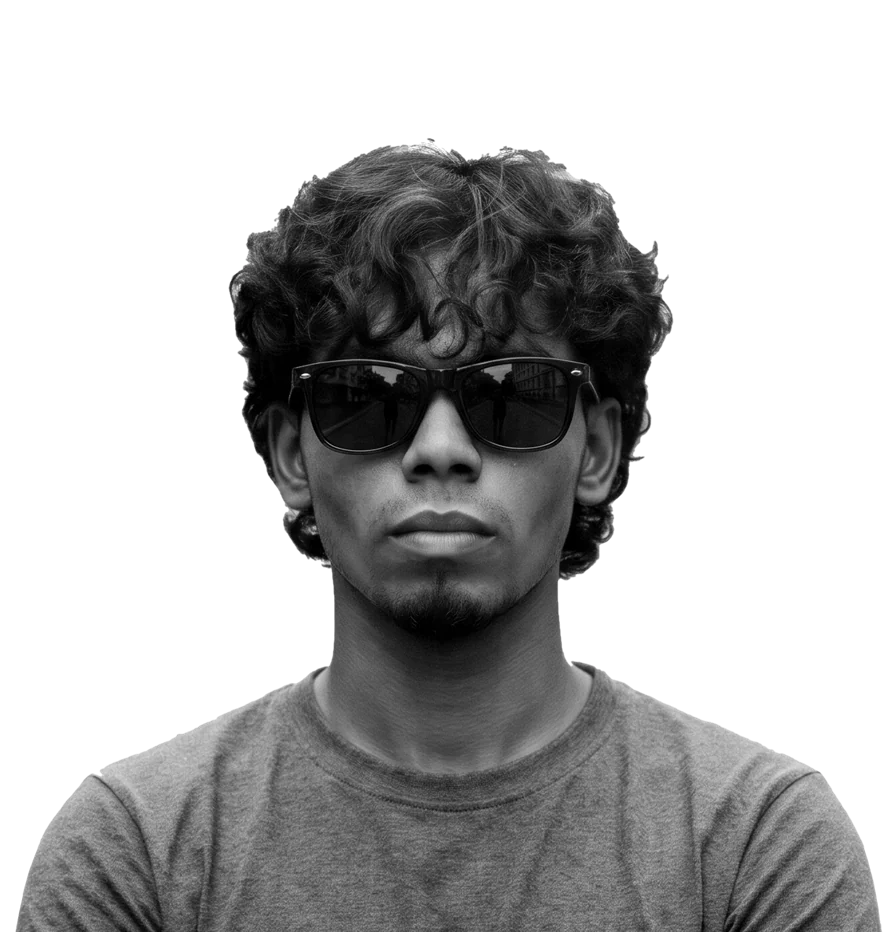
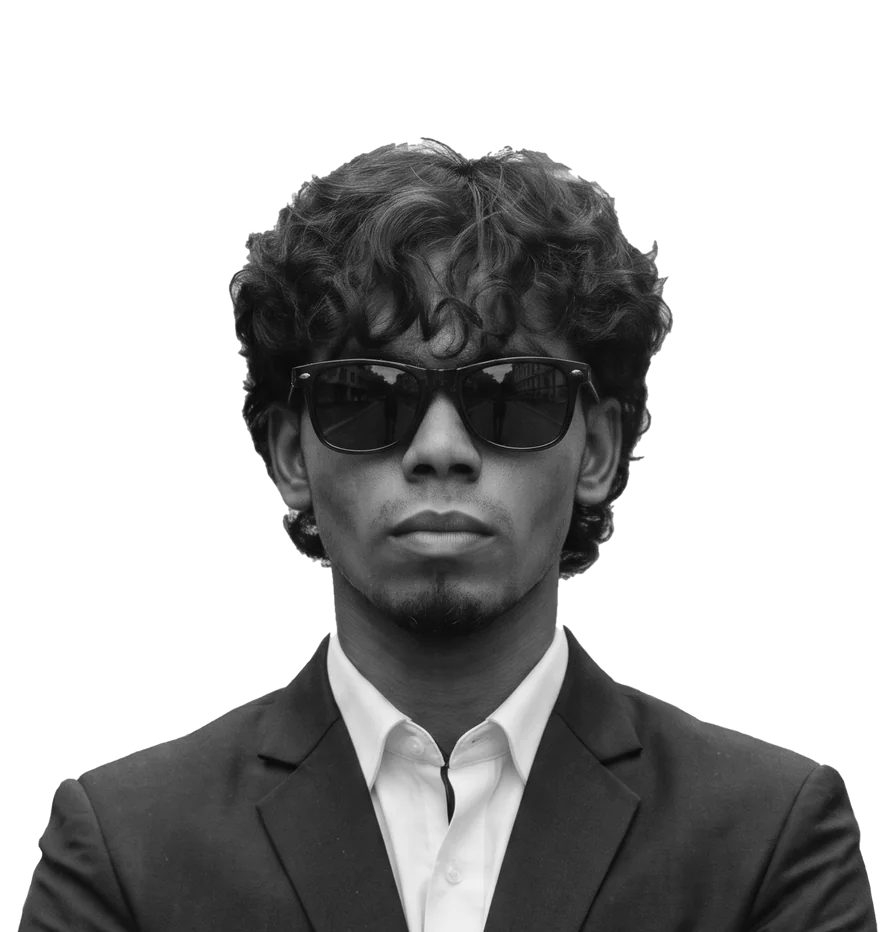
Update portrait to suit photo and reposition as Full-Stack AI Developer

diff --git a/src/app/about/page.tsx b/src/app/about/page.tsx
@@ -2,17 +2,20 @@ import type { Metadata } from "next";
 import Image from "next/image";
 import Link from "next/link";
 import { ContactClock } from "@/components/contact-clock";
+import { PORTRAIT_CUTOUT } from "@/lib/assets";
 
 export const metadata: Metadata = {
   title: "About — Sanoj",
   description:
-    "Sanoj is a full-stack developer from Chennai building web apps with Django, Flask, Next.js and Three.js.",
+    "Sanoj is a full-stack AI developer from Chennai building web apps with Django, Flask, Next.js and Gemini.",
 };
 
 const SKILLS = [
   "DJANGO",
   "FLASK",
   "NEXT.JS",
+  "GEMINI API",
+  "AI INTEGRATION",
   "THREE.JS",
   "PYTHON",
   "JAVASCRIPT",
@@ -36,10 +39,10 @@ export default function AboutPage() {
 
       <div className="about-portrait">
         <Image
-          src="/images/portrait-cutout.png"
+          src={PORTRAIT_CUTOUT}
           alt="Portrait of Sanoj"
-          width={1200}
-          height={1607}
+          width={1792}
+          height={2400}
           priority
           sizes="(max-width: 900px) 140vw, 720px"
           className="about-portrait__img"
@@ -56,7 +59,7 @@ export default function AboutPage() {
         </p>
 
         <p className="about-lede">
-          Full-stack developer, working from the database to the screen.
+          Full-stack AI developer, working from the database to the screen.
         </p>
 
         <h2 className="about-heading">
@@ -67,14 +70,14 @@ export default function AboutPage() {
 
         <div className="about-copy">
           <p>
-            I&apos;m a BCA student from Chennai who builds full-stack web apps. I
-            work with Django and Flask on the back end and Next.js on the front
-            end.
+            I&apos;m a BCA student from Chennai who builds full-stack web apps and
+            adds AI to them. I work with Django and Flask on the back end and
+            Next.js on the front end.
           </p>
           <p>
-            Lately I&apos;ve been learning to make interfaces feel alive with
-            motion, shaders and 3D using Three.js. This site is part of that
-            practice.
+            I use AI APIs like Google&apos;s Gemini to add features that understand
+            text and images, and I use Three.js to make interfaces feel alive.
+            This site is part of that practice.
           </p>
           <p>
             I like projects where I can take an idea from the database all the

diff --git a/src/components/particle-portrait.tsx b/src/components/particle-portrait.tsx
@@ -14,6 +14,7 @@ import {
   Vector2,
   WebGLRenderer,
 } from "three";
+import { PORTRAIT_CUTOUT, PORTRAIT_SAMPLE } from "@/lib/assets";
 import {
   ENTERED_EVENT,
   getTier,
@@ -23,7 +24,7 @@ import {
   type QualityTier,
 } from "@/lib/settings";
 
-const IMAGE_SRC = "/images/portrait-sample.webp";
+const IMAGE_SRC = PORTRAIT_SAMPLE;
 
 /**
  * The cutout is 1200x1607 and the person sits roughly between 15%-88% on the
@@ -108,7 +109,7 @@ function mulberry32(seed: number) {
 }
 
 async function loadBitmap(src: string) {
-  const response = await fetch(src, { cache: "force-cache" });
+  const response = await fetch(src, { cache: "default" });
   if (!response.ok) throw new Error(`Portrait request failed: ${response.status}`);
   const blob = await response.blob();
 
@@ -283,7 +284,7 @@ function buildPoints(prepared: Prepared, quality: QualityTier): BuiltPoints {
         1,
         Math.max(0, (luminanceAt(offset) - low) / (high - low)),
       );
-      if (normalized < 0.12) continue;
+      if (normalized < 0.05) continue;
       eligible += 1;
     }
   }
@@ -301,16 +302,17 @@ function buildPoints(prepared: Prepared, quality: QualityTier): BuiltPoints {
 
       const luminance = luminanceAt(offset);
       const normalized = Math.min(1, Math.max(0, (luminance - low) / (high - low)));
-      if (normalized < 0.12) continue;
+      if (normalized < 0.05) continue;
 
-      const lifted = Math.pow(normalized, 0.6);
+      const lifted = Math.pow(normalized, 0.5);
       const jitterX = (random() - 0.5) * step;
       const jitterY = (random() - 0.5) * step;
       const u = Math.min(1, Math.max(0, (px + jitterX) / sampleWidth));
       const v = Math.min(1, Math.max(0, (py + jitterY) / sampleHeight));
 
       positions.push((u - 0.5) * 2 * SOURCE_ASPECT, (0.5 - v) * 2, 0);
-      brightness.push(0.3 + lifted * 0.7);
+      // A low floor keeps the suit readable without flattening the face.
+      brightness.push(0.08 + lifted * 0.92);
       seeds.push(random());
       horizontal.push(u);
     }
@@ -563,7 +565,7 @@ export default function ParticlePortrait() {
       <canvas ref={canvasRef} className="particle-portrait__canvas" />
       {failed && (
         <Image
-          src="/images/portrait-cutout.png"
+          src={PORTRAIT_CUTOUT}
           alt=""
           fill
           sizes="(max-width: 640px) 92vw, (max-width: 1180px) 62vw, 38vw"

diff --git a/src/lib/projects.ts b/src/lib/projects.ts
@@ -22,8 +22,21 @@ export type Project = {
 
 export const PROJECTS: Project[] = [
   {
-    slug: "online-food-ordering-system",
+    slug: "multimodal-ai-intelligence-system",
     index: "01",
+    title: "MULTIMODAL AI INTELLIGENCE SYSTEM",
+    category: "AI APPLICATION",
+    meta: ["AI APPLICATION", "FULL-STACK", "2026"],
+    description:
+      "A Next.js app that uses Google's Gemini to work with different kinds of input in one place.",
+    tags: ["NEXT.JS", "GEMINI", "AI"],
+    // Drop /images/projects/multimodal-ai.png in and point here.
+    image: null,
+    href: null,
+  },
+  {
+    slug: "online-food-ordering-system",
+    index: "02",
     title: "ONLINE FOOD ORDERING SYSTEM",
     category: "WEB APPLICATION",
     meta: ["WEB APPLICATION", "FULL-STACK", "2026"],
@@ -36,7 +49,7 @@ export const PROJECTS: Project[] = [
   },
   {
     slug: "student-management-system",
-    index: "02",
+    index: "03",
     title: "STUDENT MANAGEMENT SYSTEM",
     category: "WEB APPLICATION",
     meta: ["WEB APPLICATION", "FULL-STACK", "2026"],
@@ -44,19 +57,6 @@ export const PROJECTS: Project[] = [
       "A Flask-based system for managing student records, with JWT login and a plain HTML/JS frontend.",
     tags: ["FLASK", "JWT", "HTML/JS"],
     // Drop /images/projects/student-management.png in and point here.
-    image: null,
-    href: null,
-  },
-  {
-    slug: "multimodal-ai-intelligence-system",
-    index: "03",
-    title: "MULTIMODAL AI INTELLIGENCE SYSTEM",
-    category: "AI APPLICATION",
-    meta: ["AI APPLICATION", "FULL-STACK", "2026"],
-    description:
-      "A Next.js app that uses Google's Gemini to work with different kinds of input in one place.",
-    tags: ["NEXT.JS", "GEMINI", "AI"],
-    // Drop /images/projects/multimodal-ai.png in and point here.
     image: null,
     href: null,
   },

diff --git a/src/components/home-hero.tsx b/src/components/home-hero.tsx
@@ -6,9 +6,9 @@ const BIG_STATS = [
 ] as const;
 
 const STAT_ROWS = [
-  { key: "ROLE", value: "Full-Stack Developer" },
-  { key: "STACK", value: "Django / Next.js / Three.js" },
-  { key: "FOCUS", value: "Web Apps / 3D Motion" },
+  { key: "ROLE", value: "Full-Stack AI Developer" },
+  { key: "STACK", value: "Django / Next.js / Gemini" },
+  { key: "FOCUS", value: "Web Apps / AI Features" },
   { key: "AVAILABILITY", value: "Open for work" },
   { key: "RESPONSE", value: "Under 24H" },
 ] as const;
@@ -26,20 +26,18 @@ export function HomeHero() {
 
         <h1 className="hero-title" id="hero-title">
           <span className="hero-title__outline">Full-Stack</span>
-          <span className="hero-title__solid">Developer</span>
+          <span className="hero-title__solid">AI Developer</span>
         </h1>
 
         <div className="hero-label">
           <span className="hero-label__rule" aria-hidden="true" />
-          <span className="hero-label__text">
-            | Django · Next.js · Three.js |
-          </span>
+          <span className="hero-label__text">| Django · Next.js · AI |</span>
           <span className="hero-label__rule" aria-hidden="true" />
         </div>
 
         <p className="hero-copy">
-          I build full-stack web apps from the database to the interface, and
-          I&apos;m learning to make them feel alive with motion and 3D.
+          I build full-stack web apps from the database to the interface, and add
+          AI features that make them smarter.
         </p>
       </div>
 

diff --git a/src/lib/site.ts b/src/lib/site.ts
@@ -1,12 +1,17 @@
 export const SITE_NAME = "Sanoj";
-export const SITE_TITLE = "Sanoj — Full-Stack Developer";
+export const SITE_TITLE = "Sanoj — Full-Stack AI Developer";
 export const SITE_DESCRIPTION =
-  "Full-stack developer in Chennai building fast, motion-led web apps with Next.js, Django and Three.js.";
+  "Full-stack AI developer in Chennai building web apps with Next.js, Django and Gemini.";
 
 /**
- * Set NEXT_PUBLIC_SITE_URL after the first Vercel deploy so sitemap.xml,
- * robots.txt and the Open Graph image resolve to the real domain.
+ * Vercel exposes the production domain at build time, so preview and
+ * production deploys get correct canonical, sitemap and OG URLs without any
+ * manual configuration. Set NEXT_PUBLIC_SITE_URL to override it (custom domain).
  */
+const vercelHost =
+  process.env.VERCEL_PROJECT_PRODUCTION_URL || process.env.VERCEL_URL;
+
 export const SITE_URL = (
-  process.env.NEXT_PUBLIC_SITE_URL || "https://sanoj-portfolio.vercel.app"
+  process.env.NEXT_PUBLIC_SITE_URL ||
+  (vercelHost ? `https://${vercelHost}` : "https://sanoj-portfolio.vercel.app")
 ).replace(/\/$/, "");

diff --git a/src/app/layout.tsx b/src/app/layout.tsx
@@ -38,10 +38,11 @@ export const metadata: Metadata = {
   creator: "Sanoj",
   keywords: [
     "Sanoj",
-    "full-stack developer",
+    "full-stack AI developer",
     "Next.js",
     "Django",
-    "Three.js",
+    "Gemini",
+    "AI integration",
     "portfolio",
     "Chennai",
   ],
@@ -57,7 +58,7 @@ export const metadata: Metadata = {
         url: "/og.png",
         width: 1200,
         height: 630,
-        alt: "Sanoj — Full-Stack Developer",
+        alt: "Sanoj — Full-Stack AI Developer",
       },
     ],
   },
@@ -79,7 +80,7 @@ const personJsonLd = {
   name: "Sanoj",
   url: SITE_URL,
   image: `${SITE_URL}/og.png`,
-  jobTitle: "Full-Stack Developer",
+  jobTitle: "Full-Stack AI Developer",
   email: "mailto:vamsisanoj04@gmail.com",
   address: {
     "@type": "PostalAddress",
@@ -90,7 +91,7 @@ const personJsonLd = {
     "https://www.linkedin.com/in/sanoj-d-m-8a012a419/",
     "https://github.com/SANOJDM",
   ],
-  knowsAbout: ["Next.js", "Django", "Flask", "Three.js"],
+  knowsAbout: ["Next.js", "Django", "Flask", "Gemini API", "AI integration"],
 };
 
 export const viewport: Viewport = {

diff --git a/src/app/globals.css b/src/app/globals.css
@@ -759,8 +759,8 @@ main {
     auto,
     4px 4px,
     auto;
-  -webkit-mask-image: url("/images/portrait-crt.webp");
-  mask-image: url("/images/portrait-crt.webp");
+  -webkit-mask-image: url("/images/portrait-crt.webp?v=2");
+  mask-image: url("/images/portrait-crt.webp?v=2");
   -webkit-mask-size: 100% 100%;
   mask-size: 100% 100%;
   -webkit-mask-repeat: no-repeat;
@@ -2056,7 +2056,7 @@ a.project-row__case:hover {
   max-width: none;
   height: auto;
   transform: translateX(-50%);
-  filter: grayscale(1) contrast(1.05) brightness(0.78);
+  filter: grayscale(1) contrast(1.06) brightness(0.92);
 }
 
 /* Scanlines sit on the figure; on the black surround they disappear. */
@@ -3069,7 +3069,7 @@ html.has-custom-cursor select {
 
   /* A photo is denser than the point cloud, so it sits back a little further. */
   .home-portrait[data-variant="crt"] {
-    opacity: 0.34;
+    opacity: 0.3;
   }
 }
 

diff --git a/src/components/crt-portrait.tsx b/src/components/crt-portrait.tsx
@@ -3,6 +3,7 @@
 import Image from "next/image";
 import dynamic from "next/dynamic";
 import { useSyncExternalStore } from "react";
+import { PORTRAIT_CRT } from "@/lib/assets";
 import { getTier, subscribeTier } from "@/lib/settings";
 
 const CrtCanvas = dynamic(() => import("./crt-canvas"), {
@@ -36,7 +37,7 @@ export default function CrtPortrait() {
   return (
     <div className="crt-portrait" data-ready="true" data-static="true">
       <Image
-        src="/images/portrait-crt.webp"
+        src={PORTRAIT_CRT}
         alt=""
         fill
         sizes="(max-width: 768px) 92vw, (max-width: 1180px) 62vw, 47vw"

diff --git a/src/lib/assets.ts b/src/lib/assets.ts
@@ -1,0 +1,12 @@
+/**
+ * Portrait asset URLs.
+ *
+ * Bump PORTRAIT_VERSION whenever the source photo changes. The query string
+ * gives the browser and Next's image optimizer a fresh cache entry, so a new
+ * cutout can never be hidden behind an older copy of the same filename.
+ */
+export const PORTRAIT_VERSION = "2";
+
+export const PORTRAIT_CUTOUT = `/images/portrait-cutout.png?v=${PORTRAIT_VERSION}`;
+export const PORTRAIT_SAMPLE = `/images/portrait-sample.webp?v=${PORTRAIT_VERSION}`;
+export const PORTRAIT_CRT = `/images/portrait-crt.webp?v=${PORTRAIT_VERSION}`;

diff --git a/next.config.ts b/next.config.ts
@@ -1,10 +1,18 @@
 import type { NextConfig } from "next";
+import { PORTRAIT_VERSION } from "./src/lib/assets";
 
 const nextConfig: NextConfig = {
   /* config options here */
   cacheComponents: true,
   partialPrefetching: true,
   devIndicators: false,
+  images: {
+    // Versioned portrait URLs (?v=2) plus plain /images/* for future assets.
+    localPatterns: [
+      { pathname: "/images/**", search: `?v=${PORTRAIT_VERSION}` },
+      { pathname: "/images/**", search: "" },
+    ],
+  },
   turbopack: {
     root: process.cwd(),
     rules: {

diff --git a/src/app/contact/page.tsx b/src/app/contact/page.tsx
@@ -6,7 +6,7 @@ import { ContactForm } from "@/components/contact-form";
 export const metadata: Metadata = {
   title: "Contact — Sanoj",
   description:
-    "Start a project with Sanoj, a full-stack developer in Chennai. Tell me what you're building and I'll reply within 24 hours.",
+    "Start a project with Sanoj, a full-stack AI developer in Chennai. Tell me what you're building and I'll reply within 24 hours.",
 };
 
 export default function ContactPage() {

diff --git a/src/components/marquee.tsx b/src/components/marquee.tsx
@@ -1,9 +1,9 @@
 const ITEMS = [
-  "FULL-STACK DEVELOPER",
+  "FULL-STACK AI DEVELOPER",
   "[AVAILABILITY] OPEN",
-  "[STACK] NEXT.JS / DJANGO / THREE.JS",
+  "[STACK] NEXT.JS / DJANGO / GEMINI",
+  "[FOCUS] WEB APPS / AI",
   "[LOCATION] CHENNAI",
-  "[FOCUS] WEB APPS / 3D MOTION",
   "[CORE_ID] SANOJ",
 ];
 
